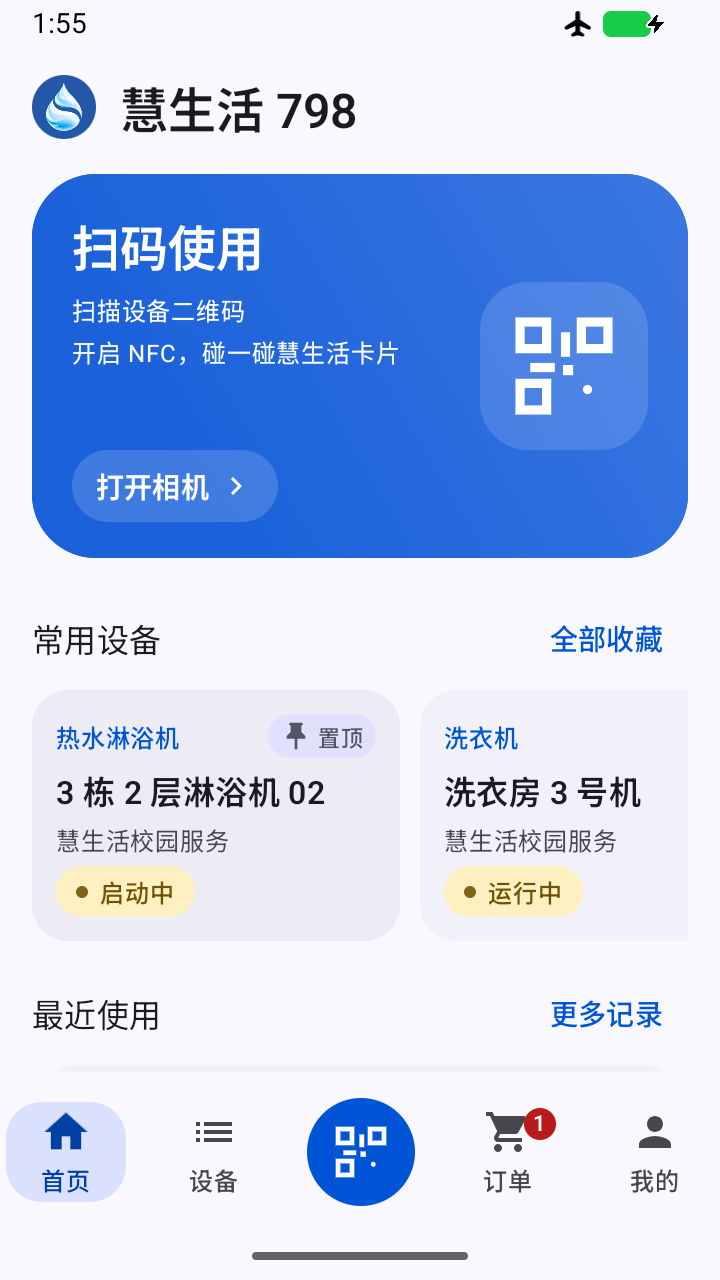
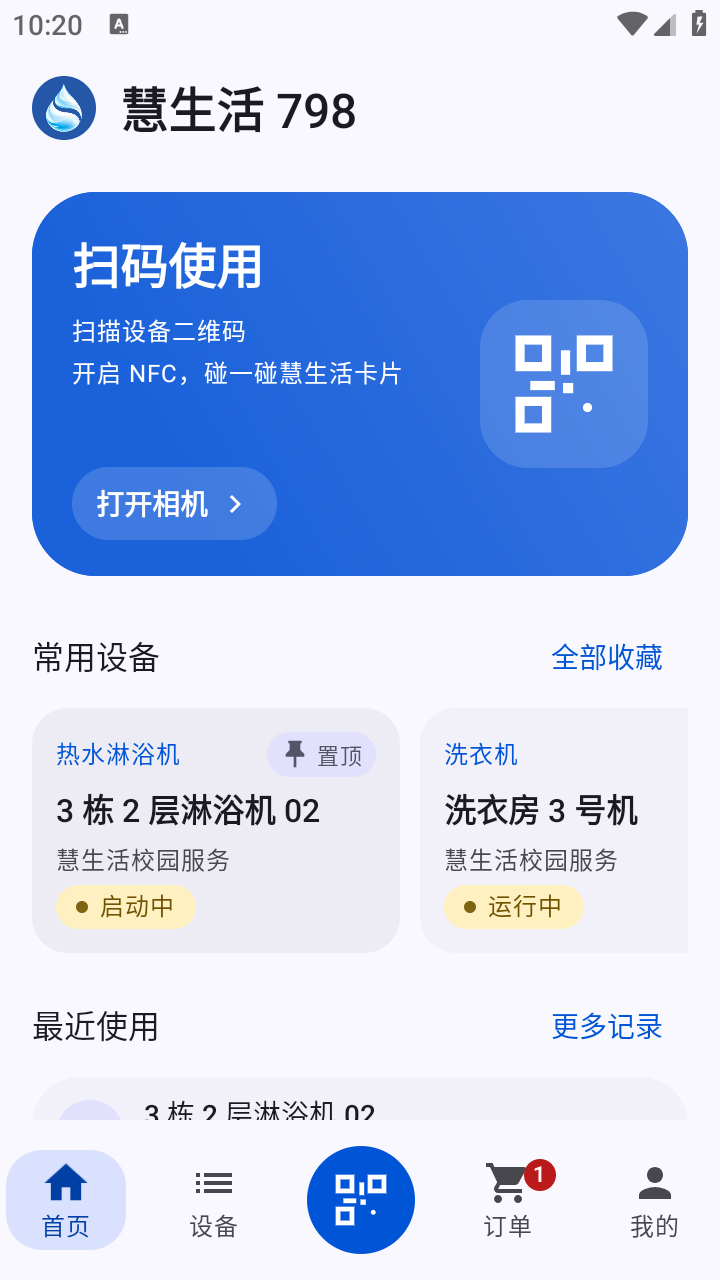
chore(release): 2.4.4
- 修复登录输入框焦点抖动并恢复占位提示与浮动标签
- 增加首页扫码卡片顶部留白
- 修复订单详情面板打开过渡卡顿
- 版本号 105，更新 CHANGELOG、README 与截图

diff --git a/SmartLife798/app/src/main/java/com/smartlife798/app/ui/LoginScreen.kt b/SmartLife798/app/src/main/java/com/smartlife798/app/ui/LoginScreen.kt
@@ -6,6 +6,8 @@
 package com.smartlife798.app.ui
 
 import android.graphics.BitmapFactory
+import androidx.compose.animation.core.FiniteAnimationSpec
+import androidx.compose.animation.core.spring
 import androidx.compose.foundation.Image
 import androidx.compose.foundation.background
 import androidx.compose.foundation.clickable
@@ -37,7 +39,9 @@ import androidx.compose.material3.ButtonDefaults
 import androidx.compose.material3.Button
 import androidx.compose.material3.LoadingIndicator
 import androidx.compose.material3.MaterialTheme
+import androidx.compose.material3.MotionScheme
 import androidx.compose.material3.OutlinedTextField
+import androidx.compose.material3.OutlinedTextFieldDefaults
 import androidx.compose.material3.ProvideTextStyle
 import androidx.compose.material3.Text
 import androidx.compose.material3.TextButton
@@ -60,6 +64,8 @@ import androidx.compose.ui.res.colorResource
 import androidx.compose.ui.res.painterResource
 import androidx.compose.ui.text.font.FontWeight
 import androidx.compose.ui.text.input.KeyboardType
+import androidx.compose.ui.platform.LocalDensity
+import androidx.compose.ui.text.style.TextOverflow
 import androidx.compose.ui.unit.dp
 import androidx.compose.ui.semantics.LiveRegionMode
 import androidx.compose.ui.semantics.Role
@@ -116,7 +122,15 @@ fun LoginScreen(vm: MainViewModel, modifier: Modifier = Modifier) {
 
     val fieldShape = MaterialTheme.shapes.medium
     val submitting = loginMethod == MainViewModel.LoginMethod.SMS
-    val fieldLabelPosition = TextFieldLabelPosition.Attached(alwaysMinimize = true)
+    val fieldLabelPosition = TextFieldLabelPosition.Attached()
+    // As the label floats, its measured height shrinks and the text field derives
+    // its top padding from that height, so the whole box bounces on focus.
+    // Pin the padding to the expanded label height to keep the box height fixed.
+    val fieldContentPadding = with(LocalDensity.current) {
+        OutlinedTextFieldDefaults.contentPadding(
+            top = (MaterialTheme.typography.bodyLarge.lineHeight.toDp() / 2).coerceAtLeast(16.dp),
+        )
+    }
     val sideAction = Modifier.width(112.dp).heightIn(min = AppLayout.ActionHeight)
     Box(
         modifier = modifier
@@ -156,29 +170,37 @@ fun LoginScreen(vm: MainViewModel, modifier: Modifier = Modifier) {
                     fontWeight = FontWeight.Bold,
                     modifier = Modifier.semantics { heading() },
                 )
-                OutlinedTextField(
-                    state = phone,
-                    inputTransformation = PhoneInput,
-                    label = { Text("手机号") },
-                    labelPosition = fieldLabelPosition,
-                    shape = fieldShape,
-                    lineLimits = TextFieldLineLimits.SingleLine,
-                    keyboardOptions = KeyboardOptions(keyboardType = KeyboardType.Phone),
-                    modifier = Modifier.fillMaxWidth().semantics { contentType = ContentType.PhoneNumber },
-                )
+                MaterialTheme(motionScheme = SteadyLabelMotion) {
+                    OutlinedTextField(
+                        state = phone,
+                        inputTransformation = PhoneInput,
+                        label = { Text("手机号", maxLines = 1, overflow = TextOverflow.Ellipsis) },
+                        placeholder = { Text("请输入手机号", maxLines = 1, overflow = TextOverflow.Ellipsis) },
+                        labelPosition = fieldLabelPosition,
+                        contentPadding = fieldContentPadding,
+                        shape = fieldShape,
+                        lineLimits = TextFieldLineLimits.SingleLine,
+                        keyboardOptions = KeyboardOptions(keyboardType = KeyboardType.Phone),
+                        modifier = Modifier.fillMaxWidth().semantics { contentType = ContentType.PhoneNumber },
+                    )
+                }
                 Row(
                     horizontalArrangement = Arrangement.spacedBy(AppLayout.Gap),
                     verticalAlignment = Alignment.Bottom,
                 ) {
-                    OutlinedTextField(
-                        state = captchaInput,
-                        inputTransformation = CaptchaInput,
-                        label = { Text("图形验证码") },
-                        labelPosition = fieldLabelPosition,
-                        shape = fieldShape,
-                        lineLimits = TextFieldLineLimits.SingleLine,
-                        modifier = Modifier.weight(1f),
-                    )
+                    MaterialTheme(motionScheme = SteadyLabelMotion) {
+                        OutlinedTextField(
+                            state = captchaInput,
+                            inputTransformation = CaptchaInput,
+                            label = { Text("图形验证码", maxLines = 1, overflow = TextOverflow.Ellipsis) },
+                            placeholder = { Text("请输入图形验证码", maxLines = 1, overflow = TextOverflow.Ellipsis) },
+                            labelPosition = fieldLabelPosition,
+                            contentPadding = fieldContentPadding,
+                            shape = fieldShape,
+                            lineLimits = TextFieldLineLimits.SingleLine,
+                            modifier = Modifier.weight(1f),
+                        )
+                    }
                     CaptchaAction(
                         bitmap = captchaBitmap,
                         loading = captchaLoading,
@@ -191,16 +213,20 @@ fun LoginScreen(vm: MainViewModel, modifier: Modifier = Modifier) {
                     horizontalArrangement = Arrangement.spacedBy(AppLayout.Gap),
                     verticalAlignment = Alignment.Bottom,
                 ) {
-                    OutlinedTextField(
-                        state = smsInput,
-                        inputTransformation = SmsInput,
-                        label = { Text("短信验证码") },
-                        labelPosition = fieldLabelPosition,
-                        shape = fieldShape,
-                        lineLimits = TextFieldLineLimits.SingleLine,
-                        keyboardOptions = KeyboardOptions(keyboardType = KeyboardType.Number),
-                        modifier = Modifier.weight(1f).semantics { contentType = ContentType.SmsOtpCode },
-                    )
+                    MaterialTheme(motionScheme = SteadyLabelMotion) {
+                        OutlinedTextField(
+                            state = smsInput,
+                            inputTransformation = SmsInput,
+                            label = { Text("短信验证码", maxLines = 1, overflow = TextOverflow.Ellipsis) },
+                            placeholder = { Text("请输入短信验证码", maxLines = 1, overflow = TextOverflow.Ellipsis) },
+                            labelPosition = fieldLabelPosition,
+                            contentPadding = fieldContentPadding,
+                            shape = fieldShape,
+                            lineLimits = TextFieldLineLimits.SingleLine,
+                            keyboardOptions = KeyboardOptions(keyboardType = KeyboardType.Number),
+                            modifier = Modifier.weight(1f).semantics { contentType = ContentType.SmsOtpCode },
+                        )
+                    }
                     TextButton(
                         shapes = ButtonDefaults.shapes(shape = fieldShape),
                         modifier = sideAction,
@@ -333,6 +359,29 @@ private fun CaptchaAction(
             )
         }
     }
+}
+
+/**
+ * Expressive motion without the overshoot: the login labels should glide to the
+ * outline instead of bouncing (the expressive fast-spatial spring has a 0.6
+ * damping ratio, which visibly wobbles the label and the outline cutout).
+ */
+private object SteadyLabelMotion : MotionScheme {
+    private val base = MotionScheme.expressive()
+    private val fastSpatial = spring<Float>(dampingRatio = 1f, stiffness = 800f)
+
+    override fun <T> defaultSpatialSpec(): FiniteAnimationSpec<T> = base.defaultSpatialSpec()
+
+    @Suppress("UNCHECKED_CAST")
+    override fun <T> fastSpatialSpec(): FiniteAnimationSpec<T> = fastSpatial as FiniteAnimationSpec<T>
+
+    override fun <T> slowSpatialSpec(): FiniteAnimationSpec<T> = base.slowSpatialSpec()
+
+    override fun <T> defaultEffectsSpec(): FiniteAnimationSpec<T> = base.defaultEffectsSpec()
+
+    override fun <T> fastEffectsSpec(): FiniteAnimationSpec<T> = base.fastEffectsSpec()
+
+    override fun <T> slowEffectsSpec(): FiniteAnimationSpec<T> = base.slowEffectsSpec()
 }
 
 private fun newSeed(): Double = Random.nextDouble(0.0, 1.0)

diff --git a/SmartLife798/app/src/main/java/com/smartlife798/app/ui/OrdersScreen.kt b/SmartLife798/app/src/main/java/com/smartlife798/app/ui/OrdersScreen.kt
@@ -27,6 +27,7 @@ import androidx.compose.material3.FilledTonalIconButton
 import androidx.compose.material3.Icon
 import androidx.compose.material3.IconButtonDefaults
 import androidx.compose.material3.Surface
+import androidx.compose.material3.SheetValue
 import androidx.compose.material3.Badge
 import com.smartlife798.app.ui.components.AppBottomSheet
 import com.smartlife798.app.ui.components.ChoiceButtonGroup
@@ -51,6 +52,7 @@ import androidx.compose.runtime.saveable.rememberSaveable
 import kotlinx.coroutines.sync.Mutex
 import androidx.compose.runtime.rememberCoroutineScope
 import androidx.compose.runtime.setValue
+import androidx.compose.runtime.snapshotFlow
 import androidx.compose.ui.Alignment
 import androidx.compose.ui.Modifier
 import androidx.compose.ui.platform.LocalContext
@@ -77,6 +79,7 @@ import com.smartlife798.app.ui.components.StatusPill
 import androidx.compose.material3.LinearWavyProgressIndicator
 import com.smartlife798.app.ui.components.usagePillState
 import com.smartlife798.app.vm.MainViewModel
+import kotlinx.coroutines.flow.first
 import kotlinx.coroutines.launch
 import kotlinx.coroutines.cancelChildren
 
@@ -113,11 +116,16 @@ fun OrdersScreen(vm: MainViewModel, onOpenDevice: (String, CardOrigin) -> Unit) 
     var endReached by remember { mutableStateOf(false) }
     var detail by remember { mutableStateOf<BillDetail?>(null) }
     var detailLoading by remember { mutableStateOf(false) }
+    // A detail read can finish while the sheet is still sliding in. Keep the
+    // response here and swap it in after the entrance instead of recomposing
+    // the whole panel body mid-animation.
+    var pendingDetail by remember { mutableStateOf<BillDetail?>(null) }
     var loadingMore by remember { mutableStateOf(false) }
     var payTarget by remember { mutableStateOf<Bill?>(null) }
     PageInactiveEffect {
         detailScope.coroutineContext.cancelChildren()
         detail = null
+        pendingDetail = null
         payTarget = null
     }
 
@@ -310,6 +318,7 @@ fun OrdersScreen(vm: MainViewModel, onOpenDevice: (String, CardOrigin) -> Unit) 
                                 bill = bill,
                                 onClick = openDetail@{
                                     if (!sceneActiveState.value || detailLoading || detail != null || payTarget != null) return@openDetail
+                                    pendingDetail = null
                                     detail = BillDetail(bill = bill)
                                     detailLoading = true
                                     detailScope.launch {
@@ -319,7 +328,7 @@ fun OrdersScreen(vm: MainViewModel, onOpenDevice: (String, CardOrigin) -> Unit) 
                                                     // A newer payment request takes precedence over this read.
                                                     if (sceneActiveState.value && payTarget == null && detail?.bill?.id == bill.id) {
                                                         val loaded = res.data
-                                                        detail = if (loaded?.bill != null) loaded
+                                                        pendingDetail = if (loaded?.bill != null) loaded
                                                         else BillDetail(bill = bill, cnt = loaded?.cnt)
                                                     }
                                                 }
@@ -385,6 +394,22 @@ fun OrdersScreen(vm: MainViewModel, onOpenDevice: (String, CardOrigin) -> Unit) 
     val detailValue = detail
     if (sceneActive && detailValue != null && payTarget == null) {
         val sheetState = rememberModalBottomSheetState(skipPartiallyExpanded = true)
+        var sheetSettled by remember(detailValue.bill?.id) { mutableStateOf(false) }
+        LaunchedEffect(sheetState, detailValue.bill?.id) {
+            snapshotFlow { sheetState.currentValue != SheetValue.Hidden && !sheetState.isAnimationRunning }
+                .collect { sheetSettled = it }
+        }
+        // Apply a read that arrived during the entrance only after it settles, so
+        // the loaded rows never compose inside the slide-up frames.
+        LaunchedEffect(pendingDetail, detailValue.bill?.id) {
+            val next = pendingDetail ?: return@LaunchedEffect
+            snapshotFlow { sheetState.currentValue != SheetValue.Hidden && !sheetState.isAnimationRunning }
+                .first { it }
+            if (detail?.bill?.id == detailValue.bill?.id) {
+                detail = next
+                pendingDetail = null
+            }
+        }
         var closing by remember(detailValue.bill?.id) { mutableStateOf(false) }
         fun closeDetail(next: (() -> Unit)? = null) {
             if (closing) return
@@ -403,7 +428,9 @@ fun OrdersScreen(vm: MainViewModel, onOpenDevice: (String, CardOrigin) -> Unit) 
             BillDetailSheet(
                 detail = detailValue,
                 enabled = !closing,
-                loading = detailLoading,
+                loading = detailLoading || pendingDetail != null,
+                // Keep the endless wave animation off the entrance frames.
+                showProgress = detailLoading && sheetSettled,
                 onDismiss = { closeDetail() },
                 onPay = { bill -> closeDetail { payTarget = bill } },
             )
@@ -420,6 +447,7 @@ fun OrdersScreen(vm: MainViewModel, onOpenDevice: (String, CardOrigin) -> Unit) 
             onPaid = {
                 payTarget = null
                 detail = null
+                pendingDetail = null
                 scope.launch { loadBills(true) }
             },
         )
@@ -496,6 +524,7 @@ private fun BillDetailSheet(
     detail: BillDetail,
     enabled: Boolean,
     loading: Boolean,
+    showProgress: Boolean,
     onDismiss: () -> Unit,
     onPay: (Bill) -> Unit,
 ) {
@@ -514,7 +543,7 @@ private fun BillDetailSheet(
             ) { Icon(Icons.Filled.Close, contentDescription = "关闭账单详情") }
         }
         androidx.compose.foundation.layout.Box(Modifier.fillMaxWidth().height(4.dp)) {
-            if (loading) LinearWavyProgressIndicator(Modifier.fillMaxWidth())
+            if (showProgress) LinearWavyProgressIndicator(Modifier.fillMaxWidth())
         }
         if (bill != null) {
             Surface(

diff --git a/SmartLife798/app/src/main/java/com/smartlife798/app/ui/HomeScreen.kt b/SmartLife798/app/src/main/java/com/smartlife798/app/ui/HomeScreen.kt
@@ -202,7 +202,9 @@ fun HomeScreen(
                 }
             }
             item(key = "scan") {
-                ScanHeroCard(onScan, modifier = Modifier.padding(vertical = 4.dp))
+                // The hero card needs more separation from the page title than the
+                // list gap; otherwise the header and the card read as one cramped block.
+                ScanHeroCard(onScan, modifier = Modifier.padding(top = AppLayout.Gap, bottom = 4.dp))
             }
             item(key = "favorites") {
                 Column(verticalArrangement = Arrangement.spacedBy(2.dp)) {

diff --git a/docs/02-功能设计与UI方案.md b/docs/02-功能设计与UI方案.md
@@ -141,7 +141,7 @@ App
 ### 4.1 登录
 
 - 顶部以应用图标和名称标识客户端，下方直接呈现「手机号登录」标题和表单。品牌、标题和输入框沿同一条左边线排列。
-- 手机号输入框和登录按钮占满表单。三个输入框的标签始终浮在描边上，切换焦点时保留相同的输入框高度。图形验证码与短信验证码输入框左对齐，图形码显示框和获取短信验证码的操作等宽右对齐。图形码图片铺满显示框，点击图片即可换图。
+- 手机号输入框和登录按钮占满表单。三个输入框的字段名在空且未聚焦时位于输入区内，聚焦或有内容后浮到描边上，聚焦空值时输入区显示「请输入…」占位提示；输入内边距按字段名展开高度固定，标签与占位单行省略，字段名浮动使用无回弹缓动，切换焦点时输入框高度和描边缺口都不抖动。图形验证码与短信验证码输入框左对齐，图形码显示框和获取短信验证码的操作等宽右对齐。图形码图片铺满显示框，点击图片即可换图。
 - 图形码加载时显示进度，失败时提供「重试」。短信操作显示发送中和 60 秒重发倒计时；登录按钮显示提交进度，失败原因显示在登录按钮上方并向读屏播报。
 - 页面随可用高度滚动并避让系统栏和键盘。正式版的「检查客户端更新」在登录操作区下方居中。页尾以小字显示协议提示和独立客户端说明。
 
@@ -192,7 +192,7 @@ App
 - 使用中：计时卡 + 打开设备 + 刷新记录；无进行中时给空态与说明。
 - 消费记录：卡片行（商品/摘要、时间、设备、金额、支付状态），点击拉取账单详情；首页与待付角标均覆盖最近 50 条账单（含充值单），更早记录通过分页“加载更多”查看；角标不是全部历史待付款总数。
 - 账单详情：底部面板（ModalBottomSheet），视口按当前窗口高度确定并保持底部对齐；安全区计入视口内部，不用当前偏移或可滚动内容反推高度。固定标题、金额/状态和底部操作；未付账单的「暂不支付」在左、「去支付」在右，等宽等高、最小 56dp，文字变大时共同增高，仅明细区域滚动；已支付账单不显示付款入口。字段包括账单号、创建/更新时间、优惠、状态、设备、服务单位、备注、说明和商品明细，长商品名称允许换行。
-- 快速点击账单只保留一次详情读取；详情缺少 bill 对象时沿用列表行。关闭按钮、返回和下滑可退出；详情先完成收起再打开支付面板，避免两个遮罩叠加。
+- 快速点击账单只保留一次详情读取；详情缺少 bill 对象时沿用列表行。读取结果在面板进场完成后才替换内容，期间不显示波浪进度动画，避免入场过场重排掉帧。关闭按钮、返回和下滑可退出；详情先完成收起再打开支付面板，避免两个遮罩叠加。
 - 支付面板沿用稳定视口，标题、金额和确认按钮固定，渠道/说明可滚动。读取渠道失败时底部操作变为「重试」，小屏大字也无需滚到说明末尾才能重试；付款期间禁止切换渠道、滑动/返回/外部关闭，保留入口防重和 finally 解锁，不自动重试支付。
 
 ### 4.7 我的
@@ -362,14 +362,14 @@ App
 
 | 页面 | 文件 | 来源与限制 |
 |---|---|---|
-| 首页 | [home.png](../screenshots/home.png) | 2.2.15 / 95 离线开发构建，API 36.1，默认字号 |
+| 首页 | [home.png](../screenshots/home.png) | 2.4.4 / 105，API 28 离线模拟器，360dp、默认字体 |
 | 设备 | [devices.png](../screenshots/devices.png) | 2.1.1，浅色列表、置顶优先与可辨识的未选中按钮 |
 | 订单 | [orders.png](../screenshots/orders.png) | 2.1.1，普通记录 |
 | 待付款 | [preview_bills.png](../screenshots/preview_bills.png) | 2.1.1，账单筛选 |
 | 我的 | [me.png](../screenshots/me.png) | 2.1.1，账号资料均为离线夹具 |
 | 钱包 | [wallet.png](../screenshots/wallet.png) | 2.1.1，仅展示夹具商品、未创建充值单 |
 | 设备详情 | [device.png](../screenshots/device.png) | 2.2.9 / 89 离线开发构建，API 28，收藏和置顶等宽 |
-| 登录 | [login.png](../screenshots/login.png) | 2.4.3 / 104，API 28 离线模拟器，360dp、默认字体 |
+| 登录 | [login.png](../screenshots/login.png) | 2.4.4 / 105，API 28 离线模拟器，360dp、默认字体 |
 | 浅色外观 | [appearance_light.png](../screenshots/appearance_light.png) | 本次样式开发构建 2.1.2 / 70，API 28，浅色更新按钮与选项层级 |
 | 提示条 | [notice.png](../screenshots/notice.png) | 1.19.6，真实 Snackbar + 虚构签到响应 |
 | 账单详情 | [bill_detail.png](../screenshots/bill_detail.png) | 当前离线开发构建，固定视口、左暂不支付右去支付且等宽等高 |

diff --git a/README.md b/README.md
@@ -6,7 +6,7 @@
 |---|---|
 | 正式版包名 | `com.smartlife798.app` |
 | Beta 版包名 | `com.smartlife798.app.debug` |
-| 当前版本 | `2.4.3`（`versionCode 104`） |
+| 当前版本 | `2.4.4`（`versionCode 105`） |
 | 技术栈 | Kotlin 2.2 · Jetpack Compose (Material 3 Expressive) · OkHttp · CameraX + ML Kit · Alipay SDK |
 | 最低版本 | Android 7.0（API 24） |
 | 正式发布 | [最新 Release](https://github.com/wu-shanglin/Smartlife798/releases/latest) |
@@ -15,7 +15,9 @@
 
 ## 当前版本
 
-**2.4.3 / 104**（正式发布）移除支付宝授权登录，保留手机号登录及支付宝支付功能。
+**2.4.4 / 105**（正式发布）修复登录输入框提示与焦点抖动、首页扫码卡片顶部留白和订单详情打开卡顿。
+
+**2.4.3 / 104**（已发布）移除支付宝授权登录，保留手机号登录及支付宝支付功能。
 
 **2.1.11 / 79** 适配原版 3.1.10 短信登录签名，补齐登录请求的 `sign` 参数。签名通过原版合成向量及离线登录验证，真实账号验收待完成。详见 [登录签名](docs/01-逆向分析报告.md#51-登录与账号)。
 
@@ -49,13 +51,13 @@
 
 ## 构建与产物
 
-2.4.3 为正式发布版本，日常试装使用独立 Debug 包。
+2.4.4 为正式发布版本，日常试装使用独立 Debug 包。
 
 唯一 Android 工程为 `SmartLife798/`；先按 [构建与运行](docs/03-技术方案与开发计划.md#4-构建与运行) 准备 JDK/SDK、本机 `local.properties`，再按 [检查与证据](docs/06-工程规范与路线图.md#2-检查与证据) 执行适用检查。release 签名及产物准备见 [版本与发布](docs/06-工程规范与路线图.md#3-版本与发布)。
 
 | 本地构建 | 文件 |
 |---|---|
-| 产物 | [`dist/SmartLife798-2.4.3-release.apk`](dist/SmartLife798-2.4.3-release.apk) |
+| 产物 | [`dist/SmartLife798-2.4.4-release.apk`](dist/SmartLife798-2.4.4-release.apk) |
 
 日常试装使用 `SmartLife798/app/build/outputs/apk/debug/app-debug.apk`。桌面的「慧生活 798 Beta 版」可与正式版并存，分别保存应用数据。上表是正式发布时的产物路径，只有明确授权打包 Release 并发布后才生成。
 

diff --git a/CHANGELOG.md b/CHANGELOG.md
@@ -7,6 +7,14 @@
 
 ## [Unreleased]
 
+## [2.4.4] - 2026-11-13
+
+- 登录输入框恢复字段名浮动动画和聚焦占位提示，固定顶部内边距、标签与占位单行省略，字段名浮动改为无回弹缓动，焦点切换时输入框和描边缺口不再抖动。
+
+- 首页扫码主卡与页头之间增加留白，避免标题与卡片挤在一起。
+
+- 订单详情面板进场完成后再应用详情读取结果，入场期间不显示波浪进度动画，消除打开时的过渡卡顿。
+
 ## [2.4.3] - 2026-11-13
 
 - 移除支付宝授权登录及相关配置，保留支付宝支付与签约。
